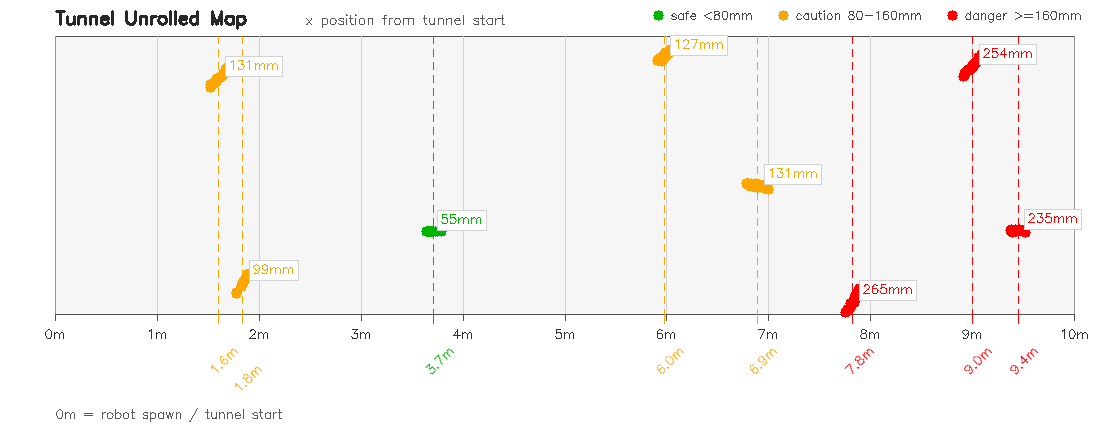
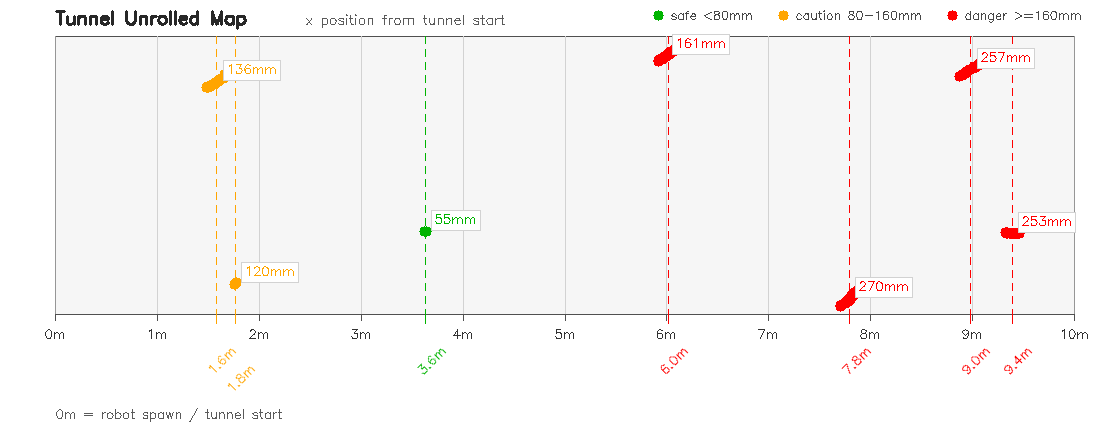
Update: Apply concrete texture to tunnel walls

diff --git a/src/tunnel_inspection_sim/models/tunnel/scripts/make_tunnel_texture.py b/src/tunnel_inspection_sim/models/tunnel/scripts/make_tunnel_texture.py
@@ -5,7 +5,7 @@ from pathlib import Path
 
 import cv2
 import numpy as np
-from PIL import Image
+from PIL import Image, ImageEnhance
 
 
 # =========================
@@ -15,9 +15,21 @@ MODEL_DIR = Path(__file__).resolve().parents[1]
 
 GT_JSON = MODEL_DIR / "gt/cracks_uv_gt.json"
 
-# 기존 터널 texture가 있으면 여기에 둔다.
-# 없으면 자동으로 회색 texture 생성.
-BASE_TEXTURE = MODEL_DIR / "textures/tunnel_base.png"
+# True: texture 이미지를 base로 사용
+# False: BASE_COLOR로 만든 기본 단색 texture를 사용
+USE_TEXTURE_IMAGE = True
+
+# 사용할 base texture 파일명
+BASE_TEXTURE_FILENAME = "texture2.jpg"
+BASE_TEXTURE = MODEL_DIR / "texture" / BASE_TEXTURE_FILENAME
+
+# base texture 밝기 배율:
+# 1.0 = 원본 밝기, 1.0보다 크면 밝게, 1.0보다 작으면 어둡게
+BASE_TEXTURE_BRIGHTNESS = 1.0
+
+# 작은 원본 이미지를 반복 배치할 때 사용할 한 tile의 크기
+BASE_TEXTURE_TILE_W = 768
+BASE_TEXTURE_TILE_H = 512
 
 OUTPUT_TEXTURE = MODEL_DIR / "tunnel_with_cracks.png"
 OUTPUT_SIZE_GT = MODEL_DIR / "cracks/crack_texture_size_gt.csv"
@@ -30,8 +42,8 @@ TEXTURE_H = 4096
 BASE_COLOR = (200, 200, 200)
 
 # 실제 터널 모델 스케일:
-#   x: -5~5 m = 길이 10 m
-#   inner radius: 약 0.70 m = 내경 1.4 m
+# x: -5~5 m = 길이 10 m
+# inner radius: 약 0.70 m = 내경 1.4 m
 TUNNEL_LENGTH_M = 10.0
 TUNNEL_INNER_RADIUS_M = 0.70
 TUNNEL_INNER_DIAMETER_MM = TUNNEL_INNER_RADIUS_M * 2.0 * 1000.0
@@ -83,6 +95,12 @@ CRACK_TARGET_UV_CENTER = {
 # 작은 균열은 padding이 크기 오차를 크게 만들기 때문에 검증용 texture에서는 작게 둔다.
 COMPOSITE_PADDING_PX = 1
 ALPHA_CROP_MARGIN_PX = 2
+
+# 최종 tunnel texture에서 crack 바깥에 추가할 검정 테두리 두께.
+# 0이면 테두리를 추가하지 않는다.
+CRACK_OUTLINE_THICKNESS_PX = 2
+CRACK_OUTLINE_ALPHA_THRESHOLD = 32
+CRACK_OUTLINE_COLOR_RGB = (0, 0, 0)
 # =========================
 
 
@@ -104,19 +122,71 @@ def uv_to_pixel(uv, width, height):
     return [float(x), float(y)]
 
 
-def load_base_texture():
-    if BASE_TEXTURE.exists():
-        img = Image.open(BASE_TEXTURE).convert("RGBA")
-        print(f"Loaded base texture: {BASE_TEXTURE}")
-        return np.array(img)
+def make_seamless_tile(texture_rgb):
+    """반복 경계가 눈에 덜 띄도록 tile의 양쪽 가장자리를 부드럽게 맞춤"""
+    tile = texture_rgb.resize(
+        (BASE_TEXTURE_TILE_W, BASE_TEXTURE_TILE_H),
+        getattr(Image, "Resampling", Image).LANCZOS,
+    )
+    tile_array = np.array(tile, dtype=np.float32)
 
-    print("Base texture not found. Creating plain gray texture.")
+    # 반대쪽 edge의 평균값으로 시작해 안쪽으로 갈수록 원본에 합류
+    blend_x = max(2, BASE_TEXTURE_TILE_W // 8)
+    source = tile_array.copy()
+    for i in range(blend_x):
+        amount = i / (blend_x - 1)
+        edge_average = 0.5 * (source[:, i] + source[:, -1 - i])
+        tile_array[:, i] = edge_average * (1.0 - amount) + source[:, i] * amount
+        tile_array[:, -1 - i] = (
+            edge_average * (1.0 - amount) + source[:, -1 - i] * amount
+        )
+
+    blend_y = max(2, BASE_TEXTURE_TILE_H // 8)
+    source = tile_array.copy()
+    for i in range(blend_y):
+        amount = i / (blend_y - 1)
+        edge_average = 0.5 * (source[i] + source[-1 - i])
+        tile_array[i] = edge_average * (1.0 - amount) + source[i] * amount
+        tile_array[-1 - i] = (
+            edge_average * (1.0 - amount) + source[-1 - i] * amount
+        )
+
+    return np.clip(tile_array, 0, 255).astype(np.uint8)
+
+
+def create_plain_base_texture():
+    """BASE_COLOR로 채운 기본 단색 texture를 생성한다."""
     base = np.zeros((TEXTURE_H, TEXTURE_W, 4), dtype=np.uint8)
     base[:, :, 0] = BASE_COLOR[0]
     base[:, :, 1] = BASE_COLOR[1]
     base[:, :, 2] = BASE_COLOR[2]
     base[:, :, 3] = 255
     return base
+
+
+def load_base_texture():
+    if not USE_TEXTURE_IMAGE:
+        print(f"Texture image disabled. Creating plain texture: color={BASE_COLOR}")
+        return create_plain_base_texture()
+
+    if BASE_TEXTURE.exists():
+        img = Image.open(BASE_TEXTURE).convert("RGB")
+        img = ImageEnhance.Brightness(img).enhance(BASE_TEXTURE_BRIGHTNESS)
+        tile = make_seamless_tile(img)
+
+        repeats_x = math.ceil(TEXTURE_W / BASE_TEXTURE_TILE_W)
+        repeats_y = math.ceil(TEXTURE_H / BASE_TEXTURE_TILE_H)
+        base_rgb = np.tile(tile, (repeats_y, repeats_x, 1))[:TEXTURE_H, :TEXTURE_W]
+        alpha = np.full((TEXTURE_H, TEXTURE_W, 1), 255, dtype=np.uint8)
+
+        print(
+            f"Loaded base texture: {BASE_TEXTURE} "
+            f"(brightness={BASE_TEXTURE_BRIGHTNESS:.2f})"
+        )
+        return np.concatenate([base_rgb, alpha], axis=2)
+
+    print(f"Base texture not found: {BASE_TEXTURE}. Creating plain gray texture.")
+    return create_plain_base_texture()
 
 
 def resolve_source_image_path(source_image_path, crack_id):
@@ -172,6 +242,31 @@ def alpha_composite_rgba(base_rgba, overlay_rgba):
 
     out = np.concatenate([out_rgb, out_a], axis=2)
     return np.clip(out * 255.0, 0, 255).astype(np.uint8)
+
+
+def add_crack_outline(crack_rgba, thickness_px):
+    """crack의 alpha mask 바깥쪽에 불투명한 검정 테두리를 추가한다."""
+    if thickness_px <= 0:
+        return crack_rgba
+
+    alpha = crack_rgba[:, :, 3]
+    seed = np.where(
+        alpha >= CRACK_OUTLINE_ALPHA_THRESHOLD,
+        255,
+        0
+    ).astype(np.uint8)
+    kernel_size = thickness_px * 2 + 1
+    kernel = cv2.getStructuringElement(
+        cv2.MORPH_ELLIPSE,
+        (kernel_size, kernel_size)
+    )
+    dilated = cv2.dilate(seed, kernel, iterations=1)
+    outline_mask = (dilated > 0) & (seed == 0)
+
+    outlined = crack_rgba.copy()
+    outlined[outline_mask, :3] = CRACK_OUTLINE_COLOR_RGB
+    outlined[outline_mask, 3] = 255
+    return outlined
 
 
 def warp_crack_to_texture(crack_img_rgba, src_uvs, dst_uvs, out_w, out_h):
@@ -401,6 +496,7 @@ def composite_crack_by_uv_bbox(canvas, crack_rgba, dst_uvs, padding_px=2):
         (paste_w, paste_h),
         interpolation=cv2.INTER_AREA
     )
+    resized = add_crack_outline(resized, CRACK_OUTLINE_THICKNESS_PX)
 
     roi = canvas[y_min:y_max + 1, x_min:x_max + 1, :]
 
@@ -436,6 +532,11 @@ def main():
         f"inner_diameter={TUNNEL_INNER_DIAMETER_MM:.0f} mm, "
         f"unrolled_arc={TUNNEL_UNROLLED_ARC_MM:.0f} mm, "
         f"texture_u={TEXTURE_U_MIN:.1f}~{TEXTURE_U_MAX:.1f}"
+    )
+    print(
+        "Crack outline: "
+        f"thickness={CRACK_OUTLINE_THICKNESS_PX}px, "
+        f"color={CRACK_OUTLINE_COLOR_RGB}"
     )
 
     size_rows = []

diff --git a/src/tunnel_inspection_sim/setup.py b/src/tunnel_inspection_sim/setup.py
@@ -17,12 +17,14 @@ setup(
         (os.path.join('share', package_name, 'config'), glob('config/*.yaml')),
         (os.path.join('share', package_name, 'worlds'), glob('worlds/*.sdf')),
         (os.path.join('share', package_name, 'models/tunnel'), glob('models/tunnel/*.*')),
-        (os.path.join('share', package_name, 'models/tunnel/cracks'), glob('models/tunnel/cracks/*')),    ],
+        (os.path.join('share', package_name, 'models/tunnel/cracks'), glob('models/tunnel/cracks/*')),
+        (os.path.join('share', package_name, 'models/tunnel/texture'), glob('models/tunnel/texture/*')),
+    ],
     install_requires=['setuptools'],
     zip_safe=True,
-    maintainer='jen',
-    maintainer_email='[email redacted]',
-    description='TODO: Package description',
+    maintainer='Seonyeong Jeong',
+    maintainer_email='[email redacted]',
+    description='ROS 2 tunnel inspection simulation with autonomous driving, RGB-D crack detection, size estimation, and risk mapping.',
     license='TODO: License declaration',
     tests_require=['pytest'],
     entry_points={